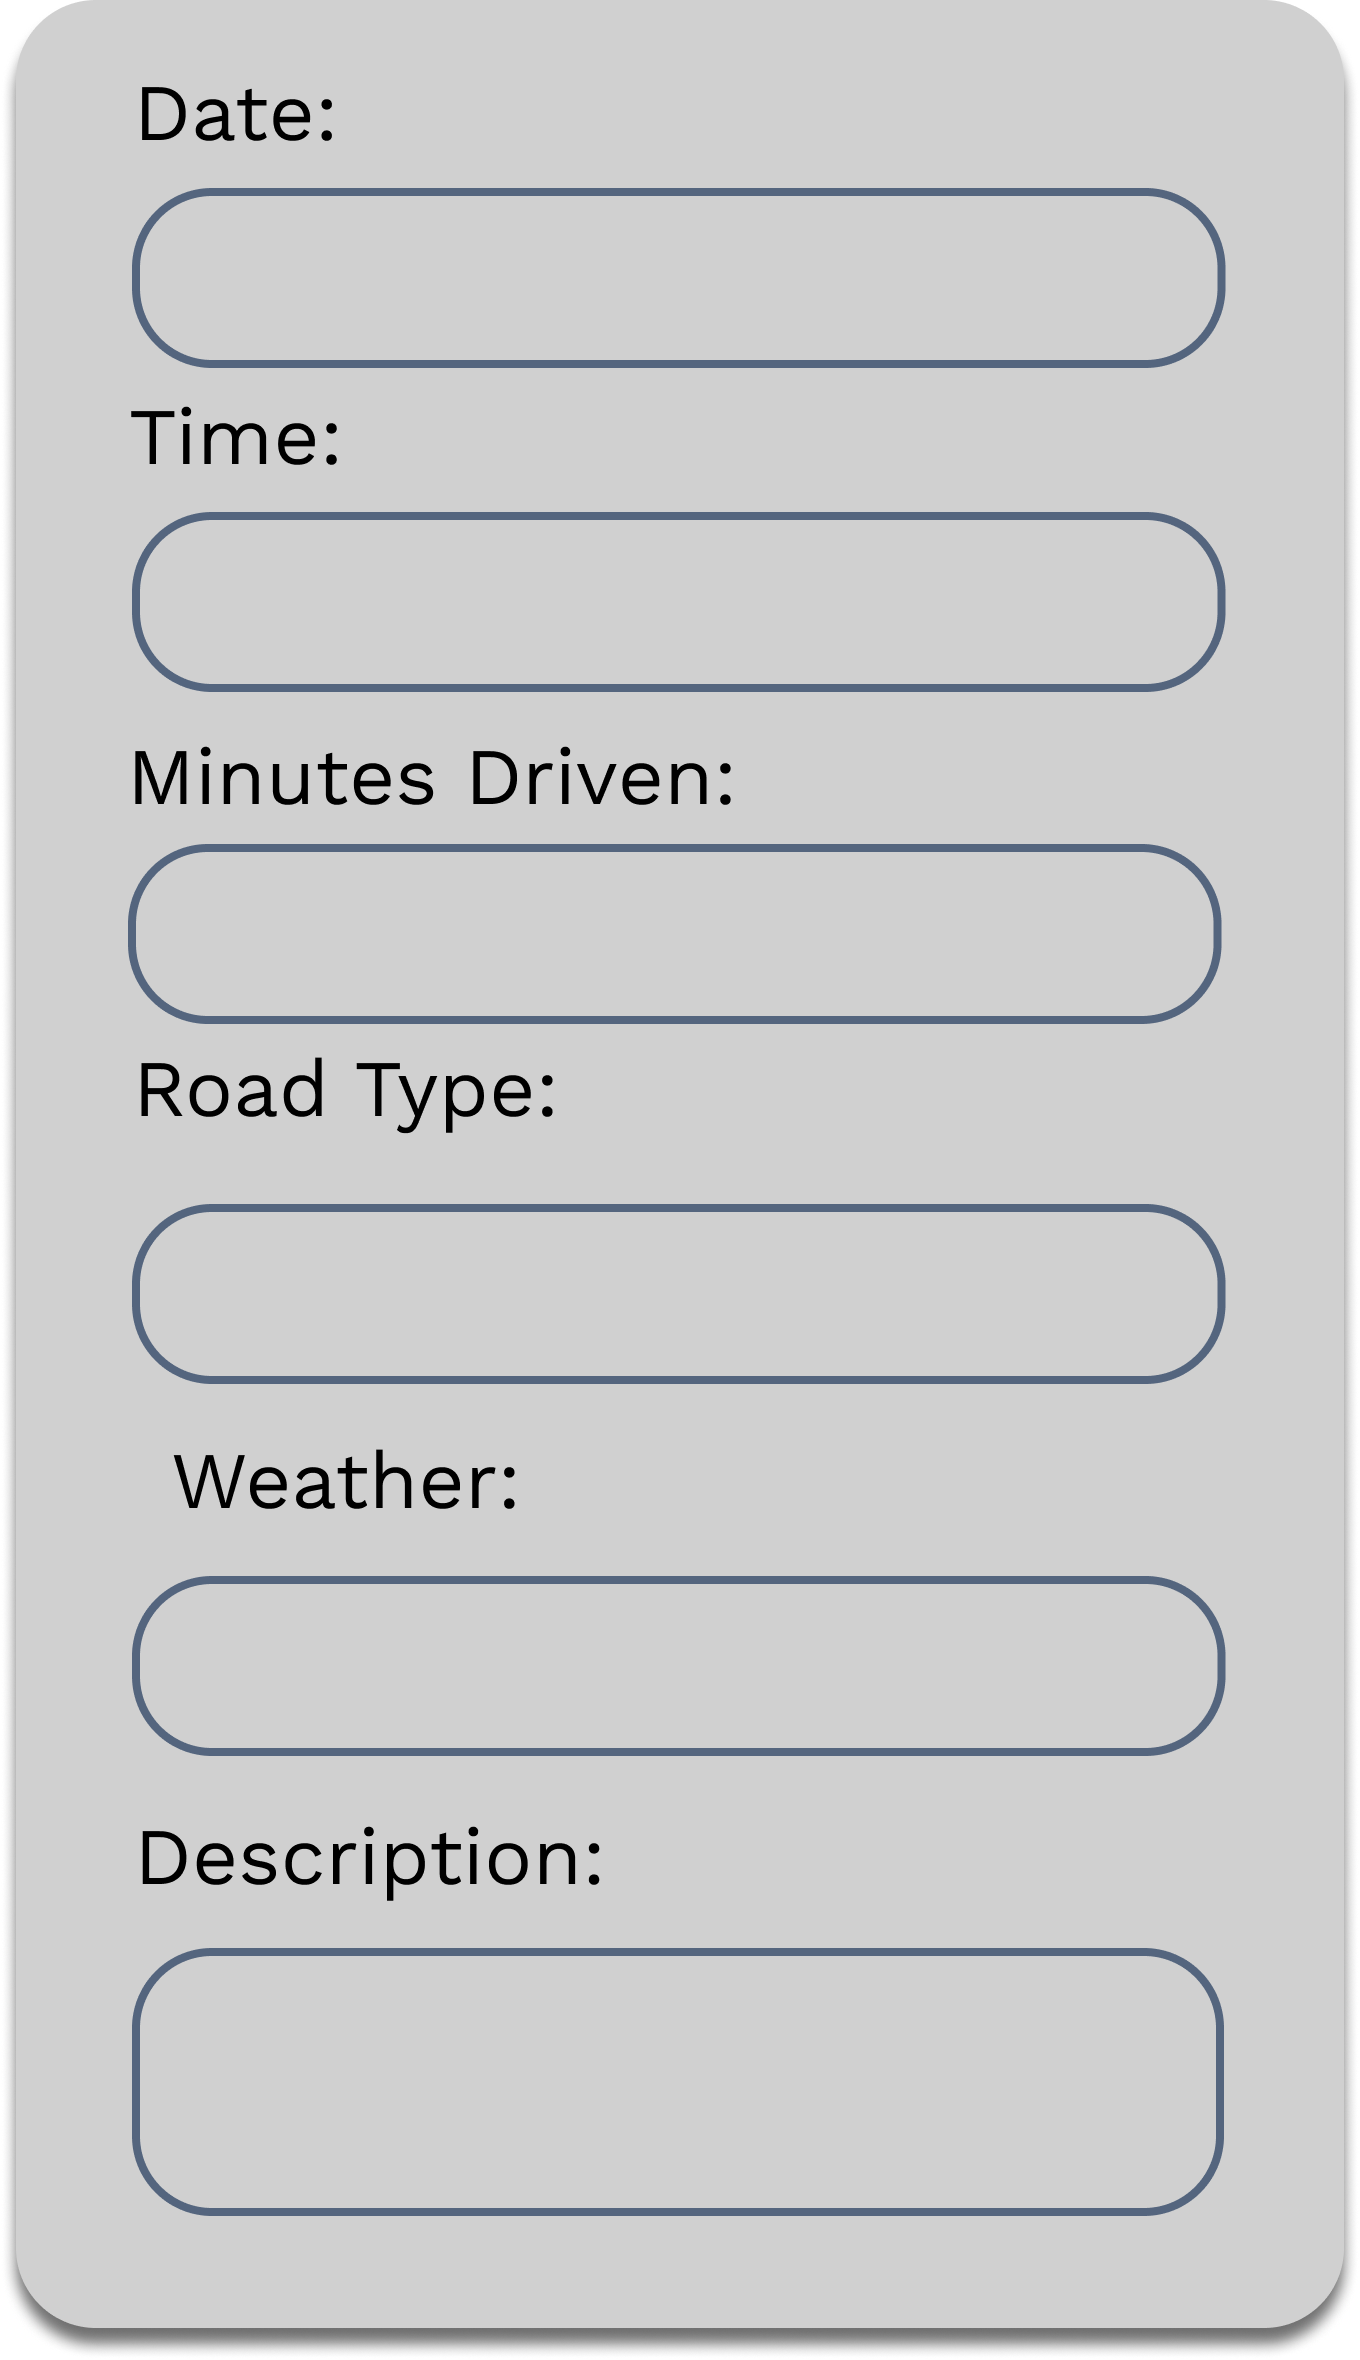
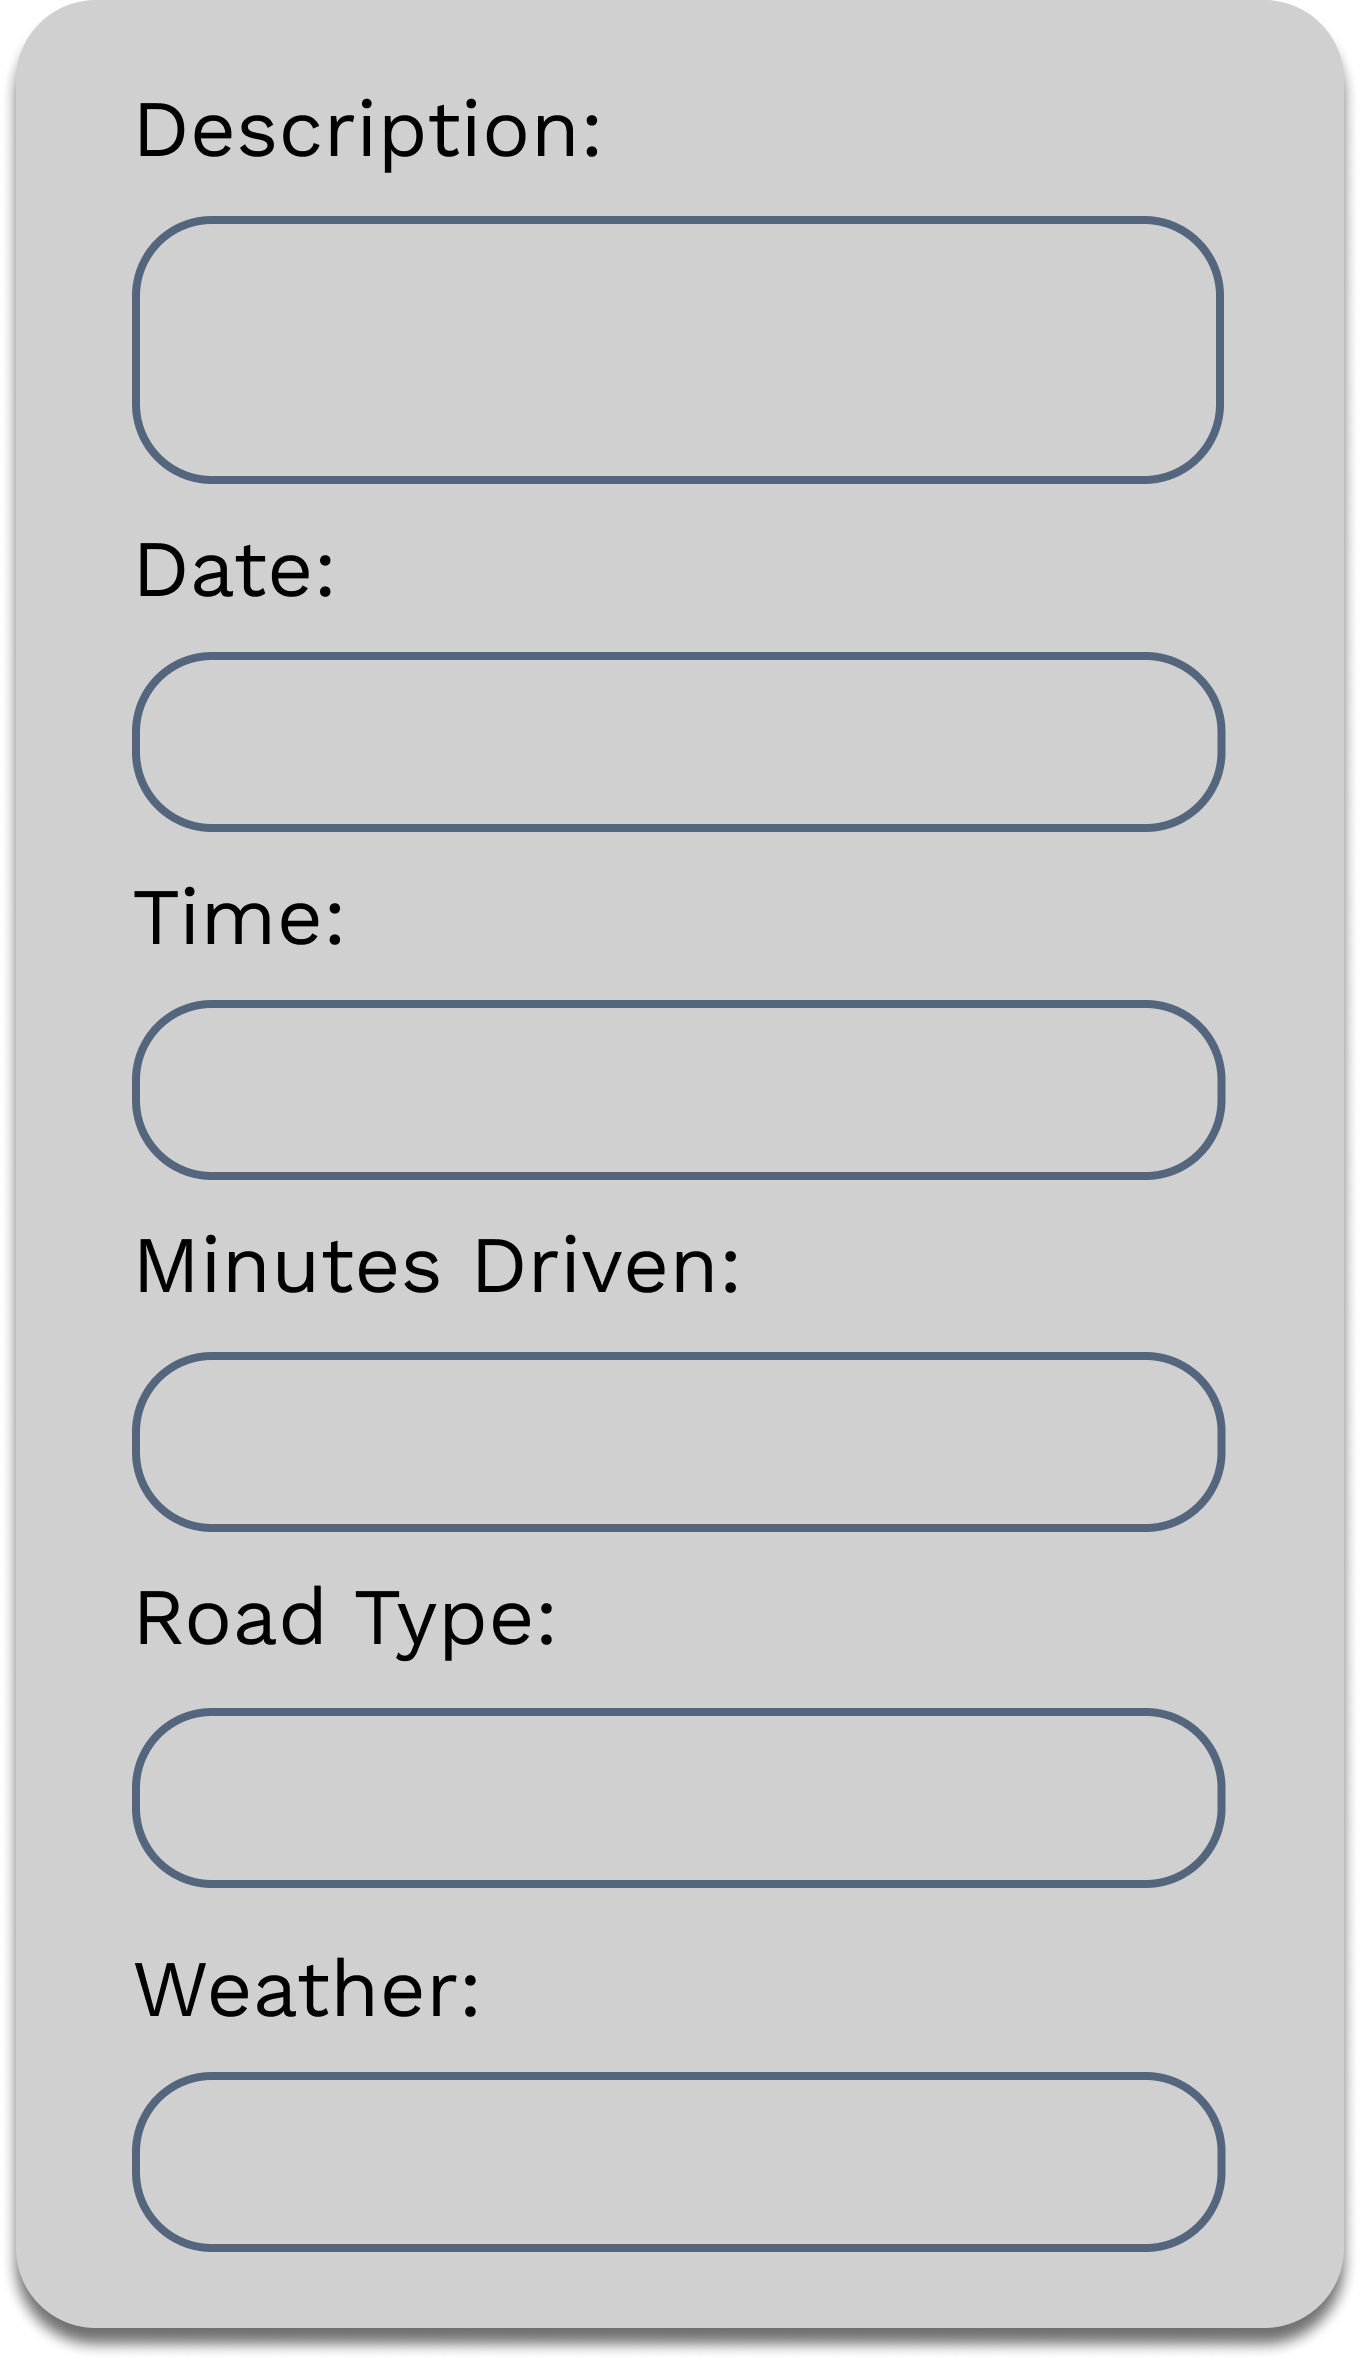
added log drive features

diff --git a/components/Logdrive.js b/components/Logdrive.js
@@ -1,14 +1,17 @@
 import * as React from 'react';
-import {View, StyleSheet, TextInput, Image, ImageBackground, TouchableOpacity, Alert, Dimensions} from 'react-native';
+import {View, StyleSheet,TouchableWithoutFeedback, Keyboard,TextInput, Image, ImageBackground, TouchableOpacity, Alert, Dimensions} from 'react-native';
 import DatePicker from 'react-native-datepicker'
+import moment from 'moment'; 
 
 
 export default class Login extends React.Component {
   state = {
     date: '',
     time: '',
+    minutes: global.minutes,
     loading: false
 };
+
 
 static navigationOptions = { headerMode: 'none', gestureEnabled: false };
   render() {
@@ -18,7 +21,7 @@ static navigationOptions = { headerMode: 'none', gestureEnabled: false };
     const wid = entireScreenWidth / 380;
     var ree;
     console.log(global.uname);
-    if (entireScreenWidth>=entireScreenHeight*3/4*1360/2360){
+    if (entireScreenWidth>=entireScreenHeight*3/4*1360/2360 *0.9){
       ree = rem;
     }
     else{
@@ -49,7 +52,8 @@ static navigationOptions = { headerMode: 'none', gestureEnabled: false };
         }
     }
     return (
-      <View style={styles.container}>
+      <TouchableWithoutFeedback onPress={() => Keyboard.dismiss()} accessible={false}>
+        <View style={styles.container}>
         
         <ImageBackground source={require('../assets/login.png')} style={styles.image}>
 <View style = {{flex:1, width: '90%', alignItems: 'center'}}>
@@ -62,26 +66,21 @@ static navigationOptions = { headerMode: 'none', gestureEnabled: false };
   <ImageBackground source={require('../assets/bigform.png')} style = {{
     alignItems: 'center',
     flex:6,
-    width: '100%',
-
+    width: '100%'
   }}resizeMode="contain">
- 
+  <View style = {{flex:1.4, width: '100%'}}></View>
+ <View style = {{flex:1, width: '100%', alignItems: 'center', justifyContent: 'center'}}>
  <DatePicker
-        style={{width: 250*wid, marginTop: 25*ree}}
+        style={{width: 250*wid, marginTop: 10*ree}}
         date={this.state.date}
         mode="date"
-        
+        maxDate = {moment().format("MM-DD-YYYY")}
         format="MM-DD-YYYY"
         confirmBtnText="Confirm"
         cancelBtnText="Cancel"
         showIcon = {false}
         customStyles={{
-          dateIcon: {
-            position: 'absolute',
-            left: 0,
-            top: 4,
-            marginLeft: 0
-          },
+
           dateInput:{borderWidth: 0},
           dateText: {
             fontSize: 12*rem,
@@ -90,30 +89,39 @@ static navigationOptions = { headerMode: 'none', gestureEnabled: false };
         }}
         onDateChange={(date) => {this.setState({date: date})}}
       />
+      </View>
+      <View style = {{flex:1, width: '100%', alignItems: 'center', justifyContent: 'center'}}>
      <DatePicker
-        style={{width: 250*wid, marginTop: 23*ree}}
+        style={{width: 250*wid, marginTop: 6*ree}}
         date={this.state.time}
         mode="time"
-        format="HH:mm A"
+        format={'h:mm A'}
         confirmBtnText="Confirm"
         cancelBtnText="Cancel"
         showIcon = {false}
         showTime={{ use12Hours: true }}
         customStyles={{
-          dateIcon: {
-            position: 'absolute',
-            left: 0,
-            top: 4,
-            marginLeft: 0
-          },
+
           dateInput:{borderWidth: 0},
           dateText: {
             fontSize: 12*rem,
           }
-          // ... You can check the source to find the other keys.
         }}
         onDateChange={(date) => {this.setState({time: date})}}
-      />
+      /></View>
+      <View style = {{flex:1, width: '100%', justifyContent: 'center', alignItems: 'center'}}>
+      <TextInput
+        style={{ fontSize: 12*rem, width: 200*wid, marginTop: 0*ree, }}
+        textAlign={'center'}
+        onChangeText={(value) => this.setState({minutes: value})}
+        keyboardType= 'number-pad'
+        value={this.state.minutes}
+        
+    />
+      </View>
+      <View style = {{flex:1, width: '100%'}}></View>
+      <View style = {{flex:1, width: '100%'}}></View>
+
     
   </ImageBackground>
   <View style = {{
@@ -141,6 +149,7 @@ static navigationOptions = { headerMode: 'none', gestureEnabled: false };
   
       </ImageBackground>
       </View>
+      </TouchableWithoutFeedback>
     );
   }
 }

diff --git a/components/Mainpage.js b/components/Mainpage.js
@@ -1,7 +1,7 @@
 import * as React from 'react';
 import { Text, View, StyleSheet, Image, ImageBackground, TouchableOpacity, Dimensions} from 'react-native';
 import * as WebBrowser from 'expo-web-browser';
-
+import { activateKeepAwake, deactivateKeepAwake } from 'expo-keep-awake';
 const entireScreenHeight = Dimensions.get('window').height;
 const rem = entireScreenHeight / 380;
 const entireScreenWidth = Dimensions.get('window').width;
@@ -22,6 +22,7 @@ export default class Mainpage extends React.Component {
   }
 
   componentWillUnmount() {
+    deactivateKeepAwake();
     clearInterval(this.state.timer);
   }
   logDrive = () => {
@@ -30,6 +31,7 @@ export default class Mainpage extends React.Component {
   }
   onButtonStart = () => {
  if (!this.state.startDisable){
+  activateKeepAwake();
     let timer = setInterval(() => {
  
       var num = (Number(this.state.seconds_Counter) + 1).toString(),
@@ -57,7 +59,9 @@ export default class Mainpage extends React.Component {
   }
 
   else{
+    deactivateKeepAwake();
     clearInterval(this.state.timer);
+    global.minutes = parseInt(hours_Counter)*60+parseInt(minutes.counter)+Math.round(parstInt(seconds_Counter)/30);
     this.setState({startDisable : false})
     this.setState({
       timer: null,
@@ -71,6 +75,7 @@ export default class Mainpage extends React.Component {
 static navigationOptions = { headerMode: 'none', gestureEnabled: false };
 
   render() {
+    global.minutes = '';
     const Handbook = () => {
       WebBrowser.openBrowserAsync('https://www.cyberdriveillinois.com/publications/pdf_publications/dsd_a112.pdf');
       }

diff --git a/components/Login.js b/components/Login.js
@@ -1,5 +1,5 @@
 import * as React from 'react';
-import {View, StyleSheet, TextInput, Image, ImageBackground, TouchableOpacity, Alert, Dimensions} from 'react-native';
+import {View, StyleSheet, TouchableWithoutFeedback, Keyboard, TextInput, Image, ImageBackground, TouchableOpacity, Alert, Dimensions} from 'react-native';
 
 
 
@@ -49,6 +49,8 @@ static navigationOptions = { headerMode: 'none', gestureEnabled: false };
         }
     }
     return (
+      <TouchableWithoutFeedback onPress={() => Keyboard.dismiss()} accessible={false}>
+
       <View style={styles.container}>
         
         <ImageBackground source={require('../assets/login.png')} style={styles.image}>
@@ -71,10 +73,11 @@ static navigationOptions = { headerMode: 'none', gestureEnabled: false };
       justifyContent: 'flex-end'
     }}>
     <TextInput
-        style={{ fontSize: 12*rem, width: 200*wid, marginBottom: 24*ree }}
+        style={{ fontSize: 12*rem, width: 200*wid, marginBottom: 24*ree, autoCapitalize: 'none', autoCompleteType: 'off' }}
         textAlign={'center'}
         onChangeText={(value) => this.setState({username: value})}
         value={this.state.username}
+        
     /></View>
     <View style = {{
       width: 200*wid,
@@ -116,6 +119,7 @@ static navigationOptions = { headerMode: 'none', gestureEnabled: false };
   
       </ImageBackground>
       </View>
+      </TouchableWithoutFeedback>
     );
   }
 }
